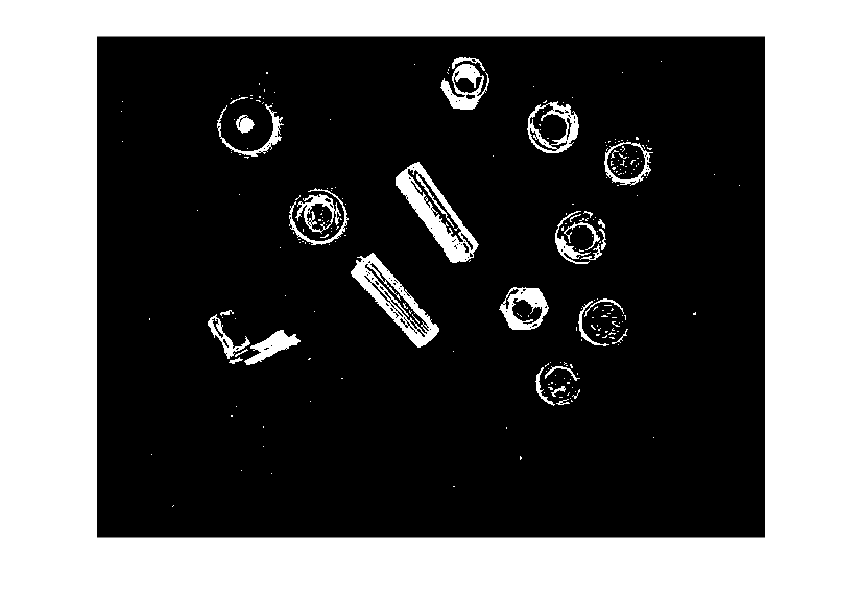
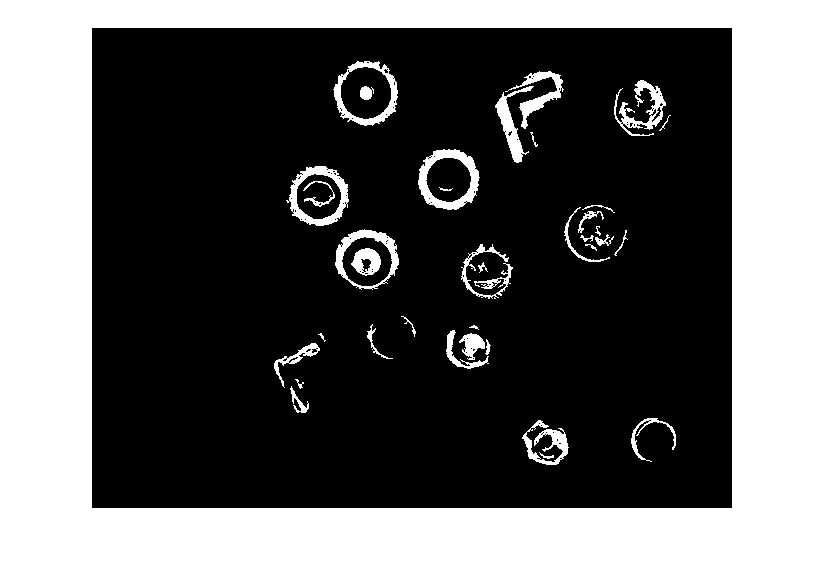
minor changes to adapt and mean_shift and norm_rgb. median_filter.m seems like it could be the way to go. Performs pretty well overall. see outimages/median*.png. also added results images from adaptive thresholding, meanshift, and normrgb

diff --git a/norm_rgb.m b/norm_rgb.m
@@ -1,11 +1,18 @@
 function [out] = norm_rgb(I)
-    figure(1),imshow(I);
+    %imtool(I);
     red = double(I(:,:,1));
     green = double(I(:,:,2));
     blue = double(I(:,:,3));
     denom = red + green + blue;
     dub = double(I);
     normed = uint8(255.*(dub./denom));
+    
+%     [r,c,colors] = size(out);
+%     flat = reshape(out,[r*c,colors]);
+%     idx = kmeans(flat,3);
+%     idx = idx./3;
+%     mat = reshape(idx,[r,c]);
+%     imtool(mat);
     
     %imtool(normed);
     
@@ -28,7 +35,7 @@ function [out] = norm_rgb(I)
             end
         end
     end
-    
+    out = bwareaopen(out,20);
     figure(),imshow(out);
                 
 end

diff --git a/median_filter.m b/median_filter.m
@@ -25,7 +25,7 @@ for i = 1:rows
     end
 end
 
-I=double(imread('harder/17.jpg'));
+I=double(imread('simpler/07.jpg'));
 out = zeros(rows,cols);
 for i = 1:rows
     for j = 1:cols
@@ -37,5 +37,5 @@ for i = 1:rows
         end
     end
 end
-out = bwareaopen(out,15);
+out = bwareaopen(out,20);
 figure(),imshow(out);

diff --git a/adapt.m b/adapt.m
@@ -1,4 +1,5 @@
 function out = adapt(I,N,C)
+    % recommended N=50, C=12
     inimage = rgb2gray(I);
     [H,W] = size(inimage);
     out = zeros(H,W);
@@ -15,4 +16,8 @@ function out = adapt(I,N,C)
         end
       end
     end
+
+    bw = im2bw(out);
+    out = bwareaopen(bw,20);
+    figure(),imshow(out);
 end

diff --git a/mean_shift.m b/mean_shift.m
@@ -68,15 +68,15 @@ for count = 1: n_iter
 
                 end
        end
-        %figure(2);
-        %imshow(out);
+        figure(2);
+        imshow(out);
     
 end
 
 % cleaning:       
 bw = im2bw(out);
 out = bwareaopen(1-bw,20);
-%figure(3),imshow(cleaned);
+figure(3),imshow(out);
     
 
 end
